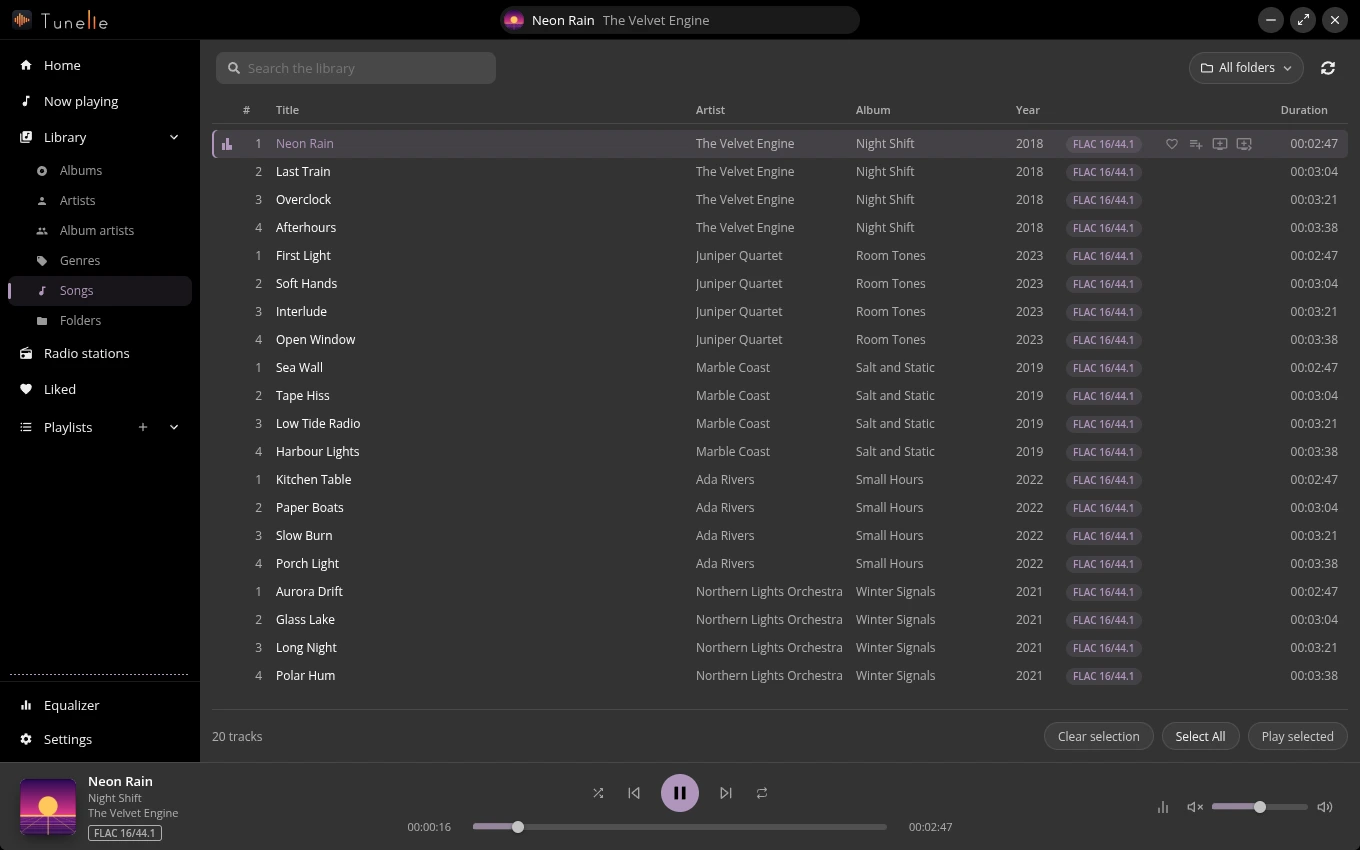
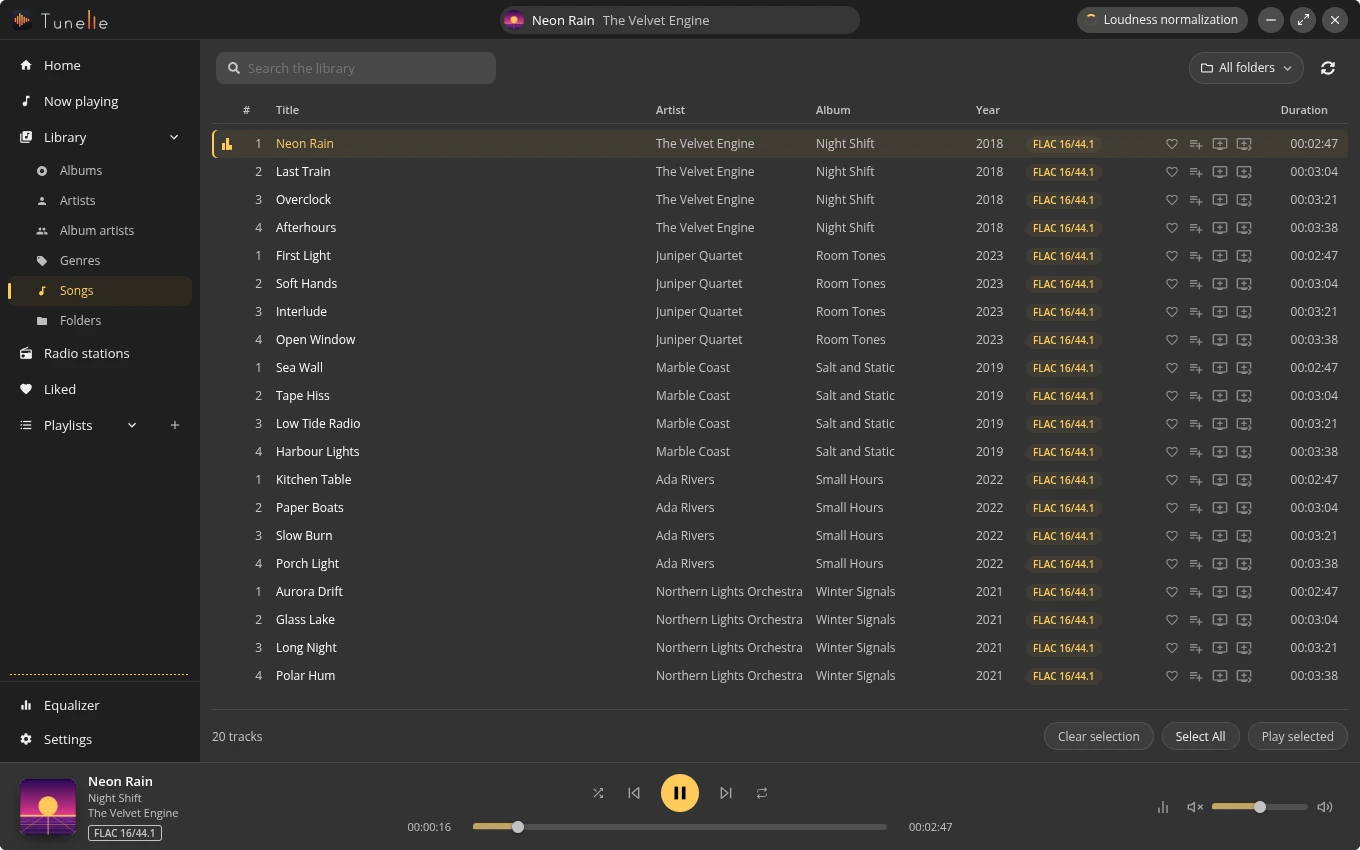
Take the screenshots in the dark theme (SCREENSHOTS_THEME=light for the light one) with the window blur off

diff --git a/e2e/screenshots/screenshot-steps.ts b/e2e/screenshots/screenshot-steps.ts
@@ -1,6 +1,7 @@
 import { test as base, expect, type Page } from '@playwright/test';
 import { mkdirSync, mkdtempSync, rmSync, writeFileSync } from 'fs';
 import { tmpdir } from 'os';
+import { z } from 'zod';
 import { join, resolve } from 'path';
 import { albums, startDirectory, writeLibrary } from '../../scripts/screenshots/screenshot-fixtures';
 import { installActiveAudio } from '../support/active-audio';
@@ -9,9 +10,12 @@ import { addFolder, launchApp, navigate, ui } from '../support/app';
 
 // what the screenshots share: the app on a library of generated files with an album playing, and the steps and the picture taken from it
 // (scenes.spec.ts for the pictures of the website, small-windows.spec.ts for the layout at small sizes)
-// SCREENSHOTS_OUT=folder writes the pictures there instead of the default folder of the file that takes them
+// SCREENSHOTS_OUT=folder writes the pictures there instead of the default folder of the file that takes them, SCREENSHOTS_THEME=light starts the app in the light theme
 
 const output = resolve(__dirname, '../..', process.env.SCREENSHOTS_OUT ?? 'site/screenshots');
+
+// the window blur is off in a clean profile, so the window has the solid background of the theme and nothing of the desktop shows
+const theme = z.enum(['dark', 'light']).catch('dark').parse(process.env.SCREENSHOTS_THEME);
 
 export interface Album {
   title: string;
@@ -30,10 +34,8 @@ export const screenshotTest = base.extend<object, { session: { page: Page; resiz
       const directory = await startDirectory();
       const { app, page } = await launchApp({ home, radioDirectory: directory.origin, initScripts: [installActiveAudio, installAudioProbe] });
       // the app stops what moves on its own for this setting (the wave of a station is drawn once, the covers change at once), so a picture does not depend on the moment it is taken
-      // and the colour scheme is the one of the system, not the light one that Playwright sets unless it is told not to
-      await page.emulateMedia({ reducedMotion: 'reduce', colorScheme: null });
-      // the window is transparent and its panels are translucent: what is behind it is black, as on a desktop of its own
-      await page.addStyleTag({ content: 'html { background: #000 !important; }' });
+      // and the app starts in the colour scheme of SCREENSHOTS_THEME (dark unless it says light), as the mode of a clean profile follows the system
+      await page.emulateMedia({ reducedMotion: 'reduce', colorScheme: theme });
       await addFolder(
         page,
         music,

diff --git a/e2e/screenshots/scenes.spec.ts b/e2e/screenshots/scenes.spec.ts
@@ -6,7 +6,7 @@ import { capture, closeDialog, currentTime, holdAt, playAlbum, shown, screenshot
 // the pictures of site/screenshots (npm run screenshots [-- -g scene]), one test each, in the order of the list: a scene starts from an album playing, and from what the ones before left
 // the same pictures every time: a library of generated tagged files and a made up station directory (scripts/screenshots/screenshot-fixtures.ts), a clean profile, English (SCREENSHOTS_LANG=hu for another language of shared/locales/), reduced motion, 1360 x 850,
 // and the clock of the player held where the scene wants it; Linux draws headless, Windows and macOS need their desktop
-// SCREENSHOTS_OUT=folder writes the pictures there instead of site/screenshots, SCREENSHOTS_LANG=hu takes them in Hungarian (the texts of the steps are English, ui() finds them in the language of the run)
+// SCREENSHOTS_OUT=folder writes the pictures there instead of site/screenshots, SCREENSHOTS_THEME=light starts the app light instead of dark, SCREENSHOTS_LANG=hu takes them in Hungarian (the texts of the steps are English, ui() finds them in the language of the run)
 
 test.describe.configure({ mode: 'serial' });
 

diff --git a/docs/development/screenshots.md b/docs/development/screenshots.md
@@ -6,7 +6,7 @@ They are taken with the Playwright setup of `e2e/` (the `screenshots` project, `
 
 - generated tagged FLAC files with drawn covers, no real artists, covers or stations;
 - a fake station directory through `TUNELLE_RADIO_DIRECTORY` whose stream names its cover in `StreamUrl`, otherwise the app looks one up online and may show someone else's art;
-- a clean profile (`HOME` and `XDG_CONFIG_HOME`), English, reduced motion, the colour scheme of the system, 1360×850, the pointer parked off the page, saved as WebP.
+- a clean profile (`HOME` and `XDG_CONFIG_HOME`), English, reduced motion, the dark theme (`SCREENSHOTS_THEME=light` starts light), the window blur off so the window has the solid background of the theme, 1360×850, the pointer parked off the page, saved as WebP.
 
 ## A new picture
 
